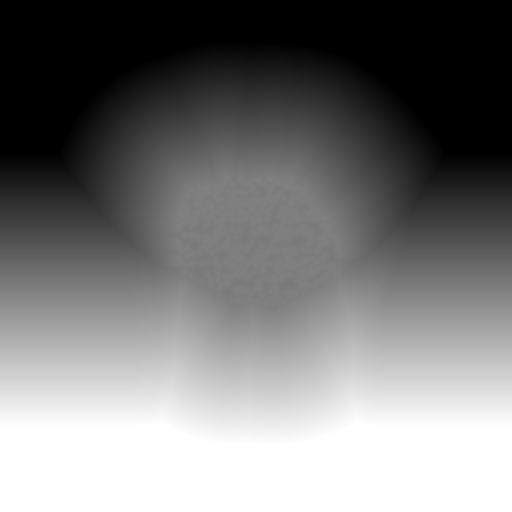
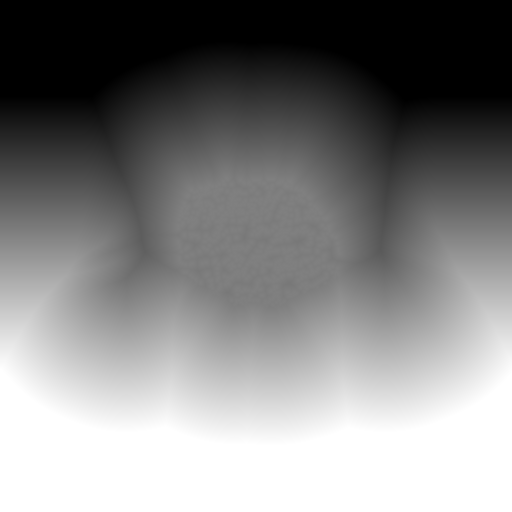
fix(scene): soften mainland joins and correct roof normals [skip ci]
Inherit the decoded rim height across an irregular near shoulder, recess the coast before distant land, retain strict shore registration and correct only triangulation-biased upper roof normals.

Changed region(s): [[0.0, 0.2188, 0.25, 0.7812], [0.7812, 0.2188, 1.0, 0.7812]]

diff --git a/src/lib/projects/crtHousingGeometry.ts b/src/lib/projects/crtHousingGeometry.ts
@@ -298,6 +298,40 @@ const PART_BUILDERS: Record<CRTHousingPart, (builder: HousingBuilder) => void> =
   indicator: addIndicator,
 };
 
+/** Area weighting tilts opposite roof ends differently across each quad diagonal. */
+function refineRoofNormals(geometry: THREE.BufferGeometry): void {
+  const position = geometry.getAttribute('position');
+  const normal = geometry.getAttribute('normal');
+  const indices = geometry.getIndex()!;
+  const contourSize = 4 * (CORNER_SEGMENTS + 1);
+  const isRoof = (vertex: number) => vertex < 5 * contourSize && vertex % contourSize < contourSize / 2;
+  const sums = new Float64Array(5 * contourSize * 3);
+  const points = [new THREE.Vector3(), new THREE.Vector3(), new THREE.Vector3()];
+  const first = new THREE.Vector3();
+  const second = new THREE.Vector3();
+  const face = new THREE.Vector3();
+  for (let triangle = 0; triangle < indices.count; triangle += 3) {
+    const vertices = [0, 1, 2].map(corner => indices.getX(triangle + corner));
+    if (!vertices.some(isRoof)) continue;
+    points.forEach((point, corner) => point.fromBufferAttribute(position, vertices[corner]));
+    face.subVectors(points[1], points[0]).cross(second.subVectors(points[2], points[0])).normalize();
+    vertices.forEach((vertex, corner) => {
+      if (!isRoof(vertex)) return;
+      first.subVectors(points[(corner + 1) % 3], points[corner]).normalize();
+      second.subVectors(points[(corner + 2) % 3], points[corner]).normalize();
+      const angle = Math.acos(THREE.MathUtils.clamp(first.dot(second), -1, 1));
+      sums[vertex * 3] += face.x * angle;
+      sums[vertex * 3 + 1] += face.y * angle;
+      sums[vertex * 3 + 2] += face.z * angle;
+    });
+  }
+  for (let vertex = 0; vertex < 5 * contourSize; vertex++) {
+    if (!isRoof(vertex)) continue;
+    first.fromArray(sums, vertex * 3).normalize();
+    normal.setXYZ(vertex, first.x, first.y, first.z);
+  }
+}
+
 /**
  * Indexed, material-batched surfaces. A loft band costs 2N triangles, a cap N:
  * N = 28 for cabinet contours, 12 for ribs/skids, 16/24/12 for the controls.
@@ -316,6 +350,7 @@ export class CrtHousingGeometry extends THREE.BufferGeometry {
     this.setAttribute('position', new THREE.Float32BufferAttribute(builder.positions, 3));
     this.setIndex(builder.indices);
     this.computeVertexNormals();
+    if (part === 'cabinet' || part === 'rear') refineRoofNormals(this);
     this.computeBoundingBox();
     this.computeBoundingSphere();
   }

diff --git a/src/lib/scene/terrainContinuation.ts b/src/lib/scene/terrainContinuation.ts
@@ -2,7 +2,7 @@ import * as THREE from 'three';
 import type { TerrainRimPoint } from './terrainSkirt';
 
 export const TERRAIN_CONTINUATION_SEGMENTS = 32;
-export const TERRAIN_CONTINUATION_RADII = [48, 110, 240] as const;
+export const TERRAIN_CONTINUATION_RADII = [46, 65, 115, 240] as const;
 const TAU = Math.PI * 2;
 
 function angleOf(point: TerrainRimPoint): number {
@@ -10,10 +10,12 @@ function angleOf(point: TerrainRimPoint): number {
 }
 
 function heightAt(x: number, z: number): number {
-  // Away from the joined headland, the coast settles at Z=-8. This also
+  // Away from the joined headland, the coast settles at Z=-28. This also
   // continues the clamped shore field correctly beyond its existing X limits.
-  const rise = THREE.MathUtils.smoothstep(-z, 35, 85);
-  return Math.min(9, -4 - (z + 8) * 0.07 +
+  const coastalVariation = (1 - THREE.MathUtils.smoothstep(Math.abs(x), 35, 55)) *
+    (8 * Math.sin(x * 0.065 + 0.35) + 4 * Math.sin(x * 0.12));
+  const rise = THREE.MathUtils.smoothstep(-z, 85, 135);
+  return Math.min(9, -4 - (z + 28 - coastalVariation) * 0.14 +
     rise * (1.3 * Math.sin(x * 0.043 + 0.4) + 0.9 * Math.cos(z * 0.057)));
 }
 
@@ -46,12 +48,16 @@ export function createTerrainContinuation(rim: readonly TerrainRimPoint[]): THRE
       const previous = (next + count - 1) % count;
       const span = (angles[next] - angles[previous] + TAU) % TAU;
       const mix = ((wrapped - angles[previous] + TAU) % TAU) / span;
-      const x = Math.cos(angle) * radius;
-      const z = -20 + Math.sin(angle) * radius;
-      positions.push(x, heightAt(x, z), z);
+      const spread = radius + (ring < 2 ? (ring ? 3 : 2) * Math.sin(5 * angle + ring * 0.6) : 0);
+      const x = Math.cos(angle) * spread;
+      const z = -20 + Math.sin(angle) * spread;
+      const edgeHeight = THREE.MathUtils.lerp(rim[previous][1], rim[next][1], mix);
+      const shoulderHeight = edgeHeight + (edgeHeight < -4 ? -0.5 :
+        0.7 * Math.sin(5 * angle + 0.4) + 0.5 * Math.sin(11 * angle));
+      positions.push(x, ring === 0 ? shoulderHeight : heightAt(x, z), z);
       for (const axis of [3, 4] as const) {
         const edgeUV = THREE.MathUtils.lerp(rim[previous][axis], rim[next][axis], mix);
-        uvs.push(THREE.MathUtils.lerp(edgeUV, 0.5, [0.18, 0.35, 0.1][ring]));
+        uvs.push(THREE.MathUtils.lerp(edgeUV, 0.5, [0.12, 0.28, 0.35, 0.1][ring]));
       }
     }
   }

diff --git a/src/lib/scene/terrainContinuation.test.ts b/src/lib/scene/terrainContinuation.test.ts
@@ -21,9 +21,9 @@ describe('static distant mainland', () => {
       expect(uv.getY(index)).toBeCloseTo(point[4], 6);
     });
     expect(JSON.stringify(rim)).toBe(before);
-    expect(positions.count).toBe(rim.length + 96);
-    expect(land.index!.count / 3).toBe(rim.length + 160);
-    expect(land.index!.count / 3).toBeLessThan(400);
+    expect(positions.count).toBe(rim.length + 128);
+    expect(land.index!.count / 3).toBe(rim.length + 224);
+    expect(land.index!.count / 3).toBeLessThan(450);
     expect(land.groups).toHaveLength(0);
     expect(land.morphAttributes).toEqual({});
     land.dispose();
@@ -69,7 +69,7 @@ describe('static distant mainland', () => {
   it('keeps every visible remote edge beyond unmodified fog throughout the authored camera envelope', () => {
     const land = createTerrainContinuation(TERRAIN_RIM);
     const positions = land.getAttribute('position');
-    const remote = TERRAIN_RIM.length + 2 * TERRAIN_CONTINUATION_SEGMENTS;
+    const remote = TERRAIN_RIM.length + 3 * TERRAIN_CONTINUATION_SEGMENTS;
     const camera = new THREE.PerspectiveCamera(50, 16 / 9, 0.1, 1000);
     const spline = createCameraSpline();
     const position = new THREE.Vector3();
@@ -97,7 +97,6 @@ describe('static distant mainland', () => {
           if (Math.abs(ndc.x) > 1 || Math.abs(ndc.y) > 1 || Math.abs(ndc.z) > 1) continue;
           const depth = -view.applyMatrix4(camera.matrixWorldInverse).z;
           minimumVisibleDepth = Math.min(minimumVisibleDepth, depth);
-          expect(depth).toBeGreaterThan(maximumFog);
           visibleSamples++;
         }
       }
@@ -142,8 +141,9 @@ describe('static distant mainland', () => {
     expect(maximumFog).toBe(92);
     expect(maximumCameraRadius).toBeLessThan(60);
     expect(visibleSamples).toBeGreaterThan(1000);
+    expect(minimumVisibleDepth).toBeGreaterThan(maximumFog);
     expect(minimumVisibleDepth).toBeGreaterThan(130);
-    expect(TERRAIN_CONTINUATION_RADII[2]).toBe(240);
+    expect(TERRAIN_CONTINUATION_RADII[3]).toBe(240);
     land.dispose();
   });
 

diff --git a/src/lib/projects/crtHousingGeometry.test.ts b/src/lib/projects/crtHousingGeometry.test.ts
@@ -45,6 +45,37 @@ function clip(
 }
 
 describe('the authored CRT housing geometry', () => {
+  it.each(['cabinet', 'rear'] as const)('%s keeps the broad roof straight and its rounded normals symmetric', part => {
+    const geometry = geometryFor(part);
+    const position = geometry.getAttribute('position');
+    const normal = geometry.getAttribute('normal');
+    const original = new THREE.BufferGeometry().copy(geometry);
+    original.computeVertexNormals();
+    const originalNormal = original.getAttribute('normal');
+    let oldBias = 0;
+    for (let ring = 0; ring < 5; ring++) {
+      for (let corner = 0; corner < 7; corner++) {
+        const right = ring * 28 + corner;
+        const left = ring * 28 + 13 - corner;
+        expect(position.getX(right)).toBeCloseTo(-position.getX(left), 7);
+        expect(position.getY(right)).toBe(position.getY(left));
+        expect(position.getZ(right)).toBe(position.getZ(left));
+        expect(normal.getX(right)).toBeCloseTo(-normal.getX(left), 5);
+        expect(normal.getY(right)).toBeCloseTo(normal.getY(left), 5);
+        expect(normal.getZ(right)).toBeCloseTo(normal.getZ(left), 5);
+        oldBias = Math.max(oldBias, Math.abs(originalNormal.getZ(right) - originalNormal.getZ(left)));
+      }
+    }
+    expect(oldBias).toBeGreaterThan(0.04);
+    // The front face, controls, lower corners, rear cap and skids stay untouched.
+    for (let vertex = 0; vertex < position.count; vertex++) {
+      if (vertex < 140 && vertex % 28 < 14) continue;
+      expect([normal.getX(vertex), normal.getY(vertex), normal.getZ(vertex)])
+        .toEqual([originalNormal.getX(vertex), originalNormal.getY(vertex), originalNormal.getZ(vertex)]);
+    }
+    original.dispose();
+  });
+
   it.each(CRT_HOUSING_PARTS)('%s has finite, indexed, non-degenerate surfaces and unit normals', part => {
     const geometry = geometryFor(part);
     const position = geometry.getAttribute('position');

diff --git a/src/lib/scene/terrainAssetBake.test.ts b/src/lib/scene/terrainAssetBake.test.ts
@@ -178,7 +178,7 @@ describe('committed organic terrain assets', () => {
       const remote = sliceShore([land]).flat().filter(([x]) => Math.abs(x) > 90);
       expect(remote.length).toBeGreaterThan(2);
       for (const [x, z] of remote) {
-        expect(z).toBeCloseTo(-8, 4);
+        expect(z).toBeCloseTo(-28, 4);
         expect(Math.abs(sampleShorePixels(pixels, x, z))).toBeLessThan(0.8);
       }
     });

diff --git a/README.md b/README.md
@@ -72,8 +72,10 @@ Original terrain heights and the already submerged forward fringe are retained.
 faceted shoulder and sloped submerged foot. It borrows Terrain's already-uploaded
 albedo and material response, keeps the boundary's original UVs, and samples
 inward on the lower rings instead of stretching one border texel down a wall.
-A separate static mainland joins **every decoded rim vertex** to three coarse
-32-station rings at radii 48, 110 and 240 around `[0, -20]`. The back now continues
+A separate static mainland joins **every decoded rim vertex** to four coarse
+32-station rings near radii 46, 65, 115 and 240 around `[0, -20]`. The near shoulder
+inherits the original rim heights with unequal rocky rises and recesses, rather
+than extending a flat shelf around the island. The back now continues
 as land rather than ending at the old island cliff. This additive surface leaves
 the original terrain, protected ground zones and all prop poses untouched. It
 shares the skirt's terrain-owned albedo/material response without another texture.
@@ -89,7 +91,7 @@ only that field; neither command changes the wave algorithm. Near-shore
 resolution remains 0.3515625 world units per texel. Buried skirt waterlines
 are excluded only when actual adjoining geometry covers them; exposed coast
 still has the strict 0.8-unit registration limit in both variants. Outside
-the field's X limits the new coast settles at Z=-8, matching the existing
+the field's X limits the new coast settles at Z=-28, matching the existing
 ClampToEdge sampler instead of shrinking near-shore detail or enlarging the texture.
 
 Pristine inputs are pinned to commit
@@ -109,10 +111,10 @@ existing theme's water alpha and Three's output-color-space fog; fragments befor
 full fog are discarded. The existing swell ends at radius 70 and is untouched.
 
 The edge assembly uses **3 draws in the main view and 2 in the existing
-reflection**: the mainland adds exactly one batch and 372 triangles (361 on the
-software variant) per view. Optimized terrain has 684 skirt triangles, 372 land
-triangles and 64 horizon triangles: 1,120 main / 1,056 mirror. Software uses
-656 skirt + 361 land + 64 horizon: 1,081 main / 1,017 mirror. The original terrain
+reflection**: the mainland adds exactly one batch and 436 triangles (425 on the
+software variant) per view. Optimized terrain has 684 skirt triangles, 436 land
+triangles and 64 horizon triangles: 1,184 main / 1,120 mirror. Software uses
+656 skirt + 425 land + 64 horizon: 1,145 main / 1,081 mirror. The original terrain
 triangle counts remain 113,858 and 75,158. The assembly owns three geometries
 and two materials, adds no
 textures, transparent fill, render targets, shadow passes, or animation loops.
@@ -121,6 +123,12 @@ Effect-owned resources survive StrictMode's rehearsal and dispose independently
 of Terrain's borrowed texture. These are geometry/draw budgets, not an FPS guarantee.
 
 ### Floor-standing TV speaker cabinet
+
+The upper receiver retains its authored angle and silhouette. Its broad roof
+spans are planar, but area-weighted normals previously biased opposite ends of
+each long quad differently. Angle-weighted normals now remove that diagonal
+shading bias only on the cabinet/rear upper lofts, preserving rounded corners.
+No positions, indices, bounds, aperture, materials, draws or triangle counts change.
 
 `CRTSpeakerCabinet` replaces the two narrow supports with one integral graphite
 lower enclosure, a broad recessed perforated grille, a restrained satin brow and
